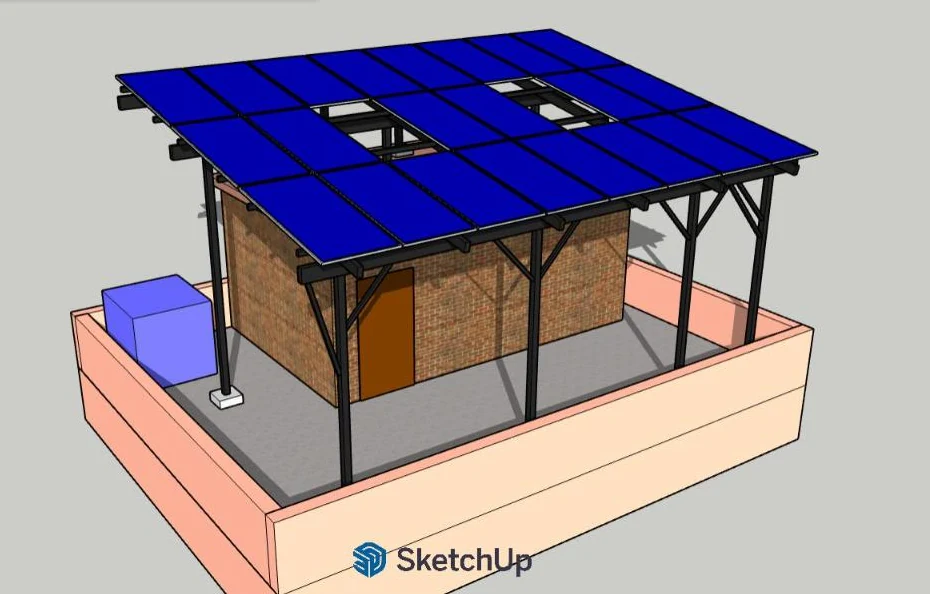
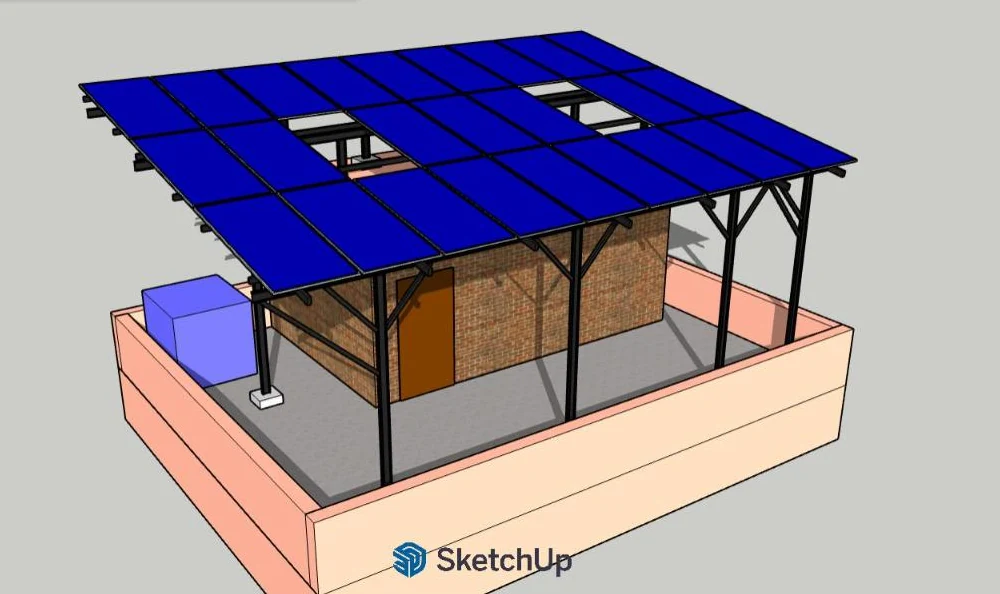
Demo: canopy model and text updated from the job's quotation
The quotation gives the real system: 15.375 kWp from 25 Canadian Solar
615 W N-type bifacial panels on a Fox 15 kW on-grid inverter, on a mild
steel elevated shed of 2.5 x 5 in I-beams and U channels on concrete
bases and block pads. The SketchUp model now has 25 panels (three rows
of nine, two left out) at 2382 x 1134 mm and I-section columns and
girders, and the five views were retaken. The project window gains a
What went in list. No prices or company details are shown.

diff --git a/src/lib/demo.ts b/src/lib/demo.ts
@@ -94,6 +94,8 @@ export type ProjectGallery = {
   pairs: { design: Shot; built: Shot }[];
   model: Shot[];
   site: Shot[];
+  /** What went into the job, from the quotation (no prices). */
+  scope?: [string, string][];
 };
 
 export const features: Feature[] = [
@@ -101,15 +103,21 @@ export const features: Feature[] = [
     key: "elevated",
     tag: "Structures",
     title: "Elevated rooftop frames",
-    text: "A raised steel frame that carries the array over a rooftop stair room and the open roof in front of it. Designed in SketchUp, then built on site to the same layout.",
+    text: "A 15.375 kWp on-grid system on a raised steel shed over a rooftop stair room and the open roof in front of it. Designed in SketchUp, then built on site to the same layout.",
+    figures: [
+      { value: "15.375 kWp", label: "on-grid system" },
+      { value: "25", label: "615 W bifacial panels" },
+      { value: "15 kW", label: "Fox inverter" },
+    ],
     chips: ["Steel frame", "SketchUp model", "Site supervision"],
     image: { src: "/projects/elevated-canopy/site-finished-right.webp", alt: "The finished elevated frame and modules over the stair room" },
     inset: { src: "/projects/elevated-canopy/model-front-right.webp", alt: "The same view in the SketchUp model", label: "SketchUp model" },
     project: {
       title: "Elevated rooftop canopy over a stair room",
       intro: [
-        "The array sits on a raised steel canopy over the rooftop stair room and the open roof in front of it. Front columns about 11 ft tall stand on concrete pads on the open roof, shorter legs about 4 ft 8 in stand on the stair room slab, and knee braces tie the front columns to the beam.",
-        "The SketchUp model follows my original design and the photos of the built frame: 22 modules in three rows, with two left out over the stair room, on a frame tilted about 10 degrees.",
+        "A 15.375 kWp on-grid system on a house roof: 25 Canadian Solar 615 W N-type bifacial panels on a Fox 15 kW on-grid inverter, carried on a raised mild steel shed over the rooftop stair room and the open roof in front of it.",
+        "The shed is built from 2.5 x 5 in I-beam columns and girders with U-channel rafters and purlins, anchored to concrete bases on block pads. The front columns are about 11 ft tall, the legs on the stair room slab about 4 ft 8 in, and knee braces tie the front columns to the girder.",
+        "The SketchUp model follows my original design, the bill of materials and the photos of the built frame: three rows of nine panels with two left out over the stair room, on a frame tilted about 10 degrees.",
       ],
       pairs: [
         { design: { src: "/projects/elevated-canopy/model-front-left.webp", caption: "SketchUp model" }, built: { src: "/projects/elevated-canopy/site-finished-front.webp", caption: "Built on site" } },
@@ -118,13 +126,22 @@ export const features: Feature[] = [
       model: [
         { src: "/projects/elevated-canopy/model-overview.webp", caption: "The whole roof: stair room, water tank, frame and array" },
         { src: "/projects/elevated-canopy/model-side.webp", caption: "Side view: low edge at the front, high edge over the stair room" },
-        { src: "/projects/elevated-canopy/model-plan.webp", caption: "Plan: three rows of eight, with two openings" },
+        { src: "/projects/elevated-canopy/model-plan.webp", caption: "Plan: three rows of nine, with two openings" },
       ],
       site: [
         { src: "/projects/elevated-canopy/site-frame-during-build.webp", caption: "The frame going up, before the modules" },
         { src: "/projects/elevated-canopy/site-underside.webp", caption: "The array running past the parapet, seen from below" },
         { src: "/projects/elevated-canopy/site-inverter-porch.webp", caption: "Inverter and AC trunking on the porch wall" },
         { src: "/projects/elevated-canopy/site-inverter-wall.webp", caption: "Inverter and distribution boards" },
+      ],
+      scope: [
+        ["Panels", "25 x Canadian Solar 615 W N-type bifacial, 15.375 kWp"],
+        ["Inverter", "Fox 15 kW on-grid, IP65, with WiFi monitoring"],
+        ["Structure", "Mild steel elevated shed: 2.5 x 5 in I-beams, U channels, anchors"],
+        ["Civil", "Concrete bases, block pads, epoxy waterproofing"],
+        ["Protection", "Indoor AC and DC distribution boxes (CHINT, TOMZN), TOMZN surge protection"],
+        ["Cabling", "Double tin-coated AC and DC cables, MC4 connectors, piping and ducting"],
+        ["Earthing", "Two GI earthing pits: DC and lightning arrester"],
       ],
     },
   },

diff --git a/src/components/FeaturedProjects.tsx b/src/components/FeaturedProjects.tsx
@@ -209,6 +209,20 @@ function ProjectView({ p }: { p: ProjectGallery }) {
         ))}
       </div>
 
+      {p.scope && (
+        <>
+          <h3 className={head} style={{ color: "var(--amber)" }}>What went in</h3>
+          <dl className="grid gap-x-6 gap-y-2 sm:grid-cols-2 rounded-xl p-4" style={{ background: "var(--bg-elev)", border: "1px solid var(--line)" }}>
+            {p.scope.map(([k, v]) => (
+              <div key={k} className="flex gap-3 text-[14px] leading-snug">
+                <dt className="w-24 shrink-0 font-semibold" style={{ color: "var(--text)" }}>{k}</dt>
+                <dd style={{ color: "var(--text-dim)" }}>{v}</dd>
+              </div>
+            ))}
+          </dl>
+        </>
+      )}
+
       <h3 className={head} style={{ color: "var(--amber)" }}>Design and build, from the same spot</h3>
       <div className="space-y-5">
         {p.pairs.map((pair) => (
